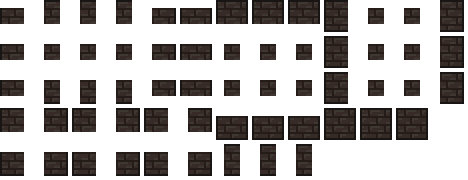
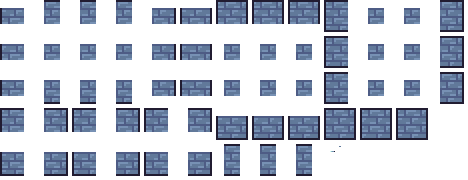
Polish

diff --git a/Boss/ArenaActor.cs b/Boss/ArenaActor.cs
@@ -71,6 +71,8 @@ namespace IceKracken.Boss
 
                 SpawnPlatform(-340, 240, true);
                 SpawnPlatform(340, 240, true);
+
+                NPC.NewNPC((int)(npc.Center.X), (int)(npc.Center.Y - 2000), ModContent.NPCType<GoldPlatform>());
             }
 
             Vector2 pos = npc.Center + new Vector2(-1600, 35 * 16) + new Vector2(0, -npc.ai[0]);
@@ -87,8 +89,7 @@ namespace IceKracken.Boss
                     Lighting.AddLight(target, new Vector3(10 * (1 + sin2), 14 * (1 + cos), 18) * (0.02f + sin * 0.003f));
                 }
             }
-
-            for(int k = 0; k < 10; k++)
+            for (int k = 0; k < 10; k++)
             {
                 Lighting.AddLight(npc.Center + new Vector2(0, -200 + k * 60), new Vector3(1, 1, 1) * 0.4f);
                 Lighting.AddLight(npc.Center + new Vector2(-400, -200 + k * 60), new Vector3(1, 1, 1) * 0.2f);
@@ -105,7 +106,8 @@ namespace IceKracken.Boss
             {
                 if(Main.player.Any(n => n.Hitbox.Intersects(new Rectangle((int)pos.X, (int)pos.Y, 200 * 16, (int)npc.ai[0]))))
                 {
-                    NPC.NewNPC((int)npc.Center.X, (int)npc.Center.Y + 650, ModContent.NPCType<MainBody>());
+                    Main.LocalPlayer.GetModPlayer<IcePlayer>().Shake += 30;
+                    NPC.NewNPC((int)npc.Center.X, (int)npc.Center.Y + 630, ModContent.NPCType<MainBody>());
                 }
             }
         }
@@ -179,6 +181,64 @@ namespace IceKracken.Boss
 
             spriteBatch.End();
             spriteBatch.Begin();
+
+            DrawWindow(spriteBatch, new Vector2(0, -70), new Color(255, 200, 255));
+
+            DrawWindow(spriteBatch, new Vector2(-20, -65), new Color(200, 255, 200));
+            DrawWindow(spriteBatch, new Vector2(-11, -105), new Color(200, 255, 255));
+
+            DrawWindow(spriteBatch, new Vector2(20, -65), new Color(200, 255, 200));
+            DrawWindow(spriteBatch, new Vector2(11, -105), new Color(200, 255, 255));
+        }
+        private void DrawWindow(SpriteBatch spriteBatch, Vector2 off, Color color)
+        {
+            Texture2D tex5 = ModContent.GetTexture("IceKracken/Boss/SmallWindowIn");
+            Texture2D tex6 = ModContent.GetTexture("IceKracken/Boss/TentacleGlow");
+            Texture2D tex7 = ModContent.GetTexture("IceKracken/Boss/TentacleTop");
+            Texture2D tex8 = ModContent.GetTexture("IceKracken/Boss/TentacleBody");
+            Texture2D tex9 = ModContent.GetTexture("IceKracken/Boss/BodyUnder");
+
+            spriteBatch.Draw(tex5, npc.Center + new Vector2(off.X * 16, off.Y * 16) + Vector2.One.RotatedBy(npc.ai[1] * 2) * 2 - Main.screenPosition, null, new Color(70, 95, 125), 0, tex5.Size() / 2, 1, 0, 0);
+
+            if (!Main.npc.Any(n => n.active && n.modNPC is MainBody) && !IceWorld.BossDowned)
+            {
+                if (off.X == 0)
+                {
+                    Vector2 tentaclePos = new Vector2(off.X * 16 + (float)Math.Cos(npc.ai[1] + off.X * 0.2f) * 5, off.Y * 16 + (float)Math.Sin(npc.ai[1] + off.X * 0.2f) * 2);
+                    spriteBatch.Draw(tex9, npc.Center + tentaclePos + new Vector2(0, 260) - Main.screenPosition, new Rectangle(48, 0, 128, 100), Color.White, 0, new Vector2(64, 50), 1, 0, 0);
+                }
+                else
+                {
+                    Vector2 tentaclePos = new Vector2(off.X * 16 + (float)Math.Cos(npc.ai[1] + off.X * 0.2f) * 20, off.Y * 16 + (float)Math.Sin(npc.ai[1] + off.X * 0.2f) * 5);
+                    for (int k = 0; k < 32; k++)
+                    {
+                        spriteBatch.Draw(tex8, npc.Center + Vector2.Lerp(tentaclePos, off * 16 + new Vector2((float)Math.Sin(npc.ai[1] + k * 0.5f) * 5, 200), k / 20f) - Main.screenPosition, null, Color.White, 0, tex8.Size() / 2, 1, 0, 0);
+                    }
+                    float tentacleRot = ((npc.Center + tentaclePos) - (npc.Center + off * 16 + new Vector2(0, 200))).ToRotation() + 1.57f;
+                    spriteBatch.Draw(tex6, npc.Center + tentaclePos - Main.screenPosition, null, Color.White, tentacleRot, tex6.Size() / 2, 1, 0, 0);
+                    spriteBatch.Draw(tex7, npc.Center + tentaclePos - Main.screenPosition, null, Color.White, tentacleRot, tex6.Size() / 2, 1, 0, 0);
+                }
+            }
+
+            spriteBatch.Draw(tex5, npc.Center + new Vector2(off.X * 16, off.Y * 16) - Main.screenPosition, null, color * 0.5f, 0, tex5.Size() / 2, 1, 0, 0);
+
+            for(int k = 0; k < 5; k++)
+            {
+                Lighting.AddLight(npc.Center + new Vector2(off.X * 16, off.Y * 16) + new Vector2(0, -100 + k * 50), color.ToVector3() * 0.5f);
+            }
+
+            Texture2D tex4 = ModContent.GetTexture("IceKracken/Boss/SmallWindow");
+            for (int x = 0; x < tex4.Width / 16; x++)
+            {
+                for (int y = 0; y < tex4.Height / 16; y++)
+                {
+                    Vector2 pos = npc.Center - (tex4.Size() / 2) + new Vector2(x + off.X, y + off.Y) * 16;
+                    spriteBatch.Draw(tex4, pos - Main.screenPosition, new Rectangle(x * 16, y * 16, 16, 16), Lighting.GetColor((int)pos.X / 16, (int)pos.Y / 16), 0, Vector2.Zero, 1, 0, 0);
+                }
+            }
+
+            Dust d = Dust.NewDustPerfect(npc.Center + off * 16 + new Vector2(Main.rand.Next(-60, 60), 300 - Main.rand.Next(400)), 257, new Vector2(0, -2), 200, color * 1.8f, 1);
+            d.noGravity = true;
         }
 
         private void SpawnPlatform(int x, int y, bool small = false)

diff --git a/Boss/IcePlatform.cs b/Boss/IcePlatform.cs
@@ -79,7 +79,7 @@ namespace IceKracken.Boss
                 Dust.NewDust(npc.position, npc.width, npc.height, Terraria.ID.DustID.Ice);
                 npc.ai[1]++;
             }
-            else npc.ai[1] = 0;
+            else if(npc.ai[1] > 0 )npc.ai[1]--;
 
             if(npc.ai[1] >= 20)
             {
@@ -87,6 +87,35 @@ namespace IceKracken.Boss
                     npc.velocity.Y += 0.3f;
             }
             else if (npc.position.Y > npc.ai[0]) npc.velocity.Y = -1;
+            else npc.velocity.Y = 0;
+        }
+    }
+
+    class GoldPlatform : MovingPlatform, IUnderwater
+    {
+        public override bool PreDraw(SpriteBatch spriteBatch, Color drawColor) => false;
+        public void DrawUnderWater(SpriteBatch spriteBatch)
+        {
+            spriteBatch.Draw(ModContent.GetTexture(Texture), npc.position - Main.screenPosition, Lighting.GetColor((int)npc.Center.X / 16, (int)npc.Center.Y / 16));
+        }
+
+        public override void SafeSetDefaults()
+        {
+            npc.width = 200;
+            npc.height = 20;
+        }
+        public override void SafeAI()
+        {
+            if (npc.ai[0] == 0) npc.ai[0] = npc.position.Y;
+
+            if (Main.player.Any(player => player.active && player.Hitbox.Intersects(npc.Hitbox)) && IceWorld.BossOpen)
+            {
+                if (npc.velocity.Y < 1.5f)
+                    npc.velocity.Y += 0.02f;
+
+                if (npc.position.Y - npc.ai[0] > 1600) npc.velocity.Y = 0;
+            }
+            else if (npc.position.Y > npc.ai[0]) npc.velocity.Y = -6;
             else npc.velocity.Y = 0;
         }
     }

diff --git a/IceWorld.cs b/IceWorld.cs
@@ -19,6 +19,7 @@ namespace IceKracken
     {
         public static Rectangle IceZone = new Rectangle();
         public static bool BossOpen;
+        public static bool BossDowned;
         #region Worldgen
         public override void ModifyWorldGenTasks(List<GenPass> tasks, ref float totalWeight)
         {
@@ -84,7 +85,7 @@ namespace IceKracken
         {
             if(!Main.npc.Any(n => n.active && n.type == ModContent.NPCType<Boss.ArenaActor>()))
             {
-                NPC.NewNPC(IceZone.Center.X * 16 + 200, IceZone.Center.Y * 16 - 352, ModContent.NPCType<Boss.ArenaActor>());
+                NPC.NewNPC(IceZone.Center.X * 16 + 232, IceZone.Center.Y * 16 - 64, ModContent.NPCType<Boss.ArenaActor>());
             }
         }
 
@@ -96,13 +97,15 @@ namespace IceKracken
                 ["Top"] = IceZone.Y,
                 ["Width"] = IceZone.Width,
                 ["Height"] = IceZone.Height,
-                ["Open"] = BossOpen
+                ["Open"] = BossOpen,
+                ["Downed"] = BossDowned
             };
         }
         public override void Load(TagCompound tag)
         {
             IceZone = new Rectangle(tag.GetInt("Left"), tag.GetInt("Top"), tag.GetInt("Width"), tag.GetInt("Height"));
             BossOpen = tag.GetBool("Open");
+            BossDowned = tag.GetBool("Downed");
         }
     }
 }

diff --git a/Tiles.cs b/Tiles.cs
@@ -27,7 +27,7 @@ namespace IceKracken
         public override void SetDefaults()
         {
             Main.wallHouse[Type] = false;
-            AddMapEntry(new Color(65, 70, 75));
+            AddMapEntry(new Color(50, 90, 120));
         }
     }
 
@@ -52,6 +52,11 @@ namespace IceKracken
             minPick = 100;
             soundType = SoundID.Tink;
             dustType = DustID.Stone;
+            AddMapEntry(new Color(100, 150, 255));
+        }
+        public override void NearbyEffects(int i, int j, bool closer)
+        {
+            Lighting.AddLight(new Vector2(i, j) * 16, new Vector3(1, 1, 1) * 0.01f);
         }
     }
     class Brick2 : ModTile
@@ -71,7 +76,7 @@ namespace IceKracken
         }
         public override void NearbyEffects(int i, int j, bool closer)
         {
-            if (IceWorld.BossOpen) Main.tile[i, j].inActive(true);
+            if (IceWorld.BossOpen && !Main.npc.Any(n => n.active && n.modNPC is Boss.MainBody)) Main.tile[i, j].inActive(true);
             else Main.tile[i, j].inActive(false);
         }
     }

diff --git a/IceKracken.cs b/IceKracken.cs
@@ -47,8 +47,6 @@ namespace IceKracken
 
         private void PlacementRestriction(On.Terraria.Player.orig_PlaceThing orig, Terraria.Player self)
         {
-            orig(self);
-            return;
             Tile tile = Main.tile[Player.tileTargetX, Player.tileTargetY];
             if (tile.wall == ModContent.WallType<BrickWall>() &&
                 !Main.projectile.Any(n => n.active && n.timeLeft > 10 && n.modProjectile is InteractiveProjectile && (n.modProjectile as InteractiveProjectile).ValidPoints.Contains(new Point16(Player.tileTargetX, Player.tileTargetY))))

diff --git a/Boss/MainBody.cs b/Boss/MainBody.cs
@@ -61,6 +61,11 @@ namespace IceKracken.Boss
             spriteBatch.Draw(tex, npc.Center - Main.screenPosition, tex.Frame(), Color.White, npc.rotation, tex.Size() / 2, 1, 0, 0);
         }
         public override bool PreDraw(SpriteBatch spriteBatch, Color drawColor) => false;
+        public override bool CheckDead()
+        {
+            IceWorld.BossDowned = true;
+            return true;
+        }
         #endregion
 
         #region AI

diff --git a/Items/NutKracker.cs b/Items/NutKracker.cs
@@ -55,6 +55,7 @@ namespace IceKracken.Items
                 }
             }
             IceWorld.BossOpen = false;
+            IceWorld.BossDowned = false;
             return true;
         }
         public override bool AltFunctionUse(Player player) => true;
